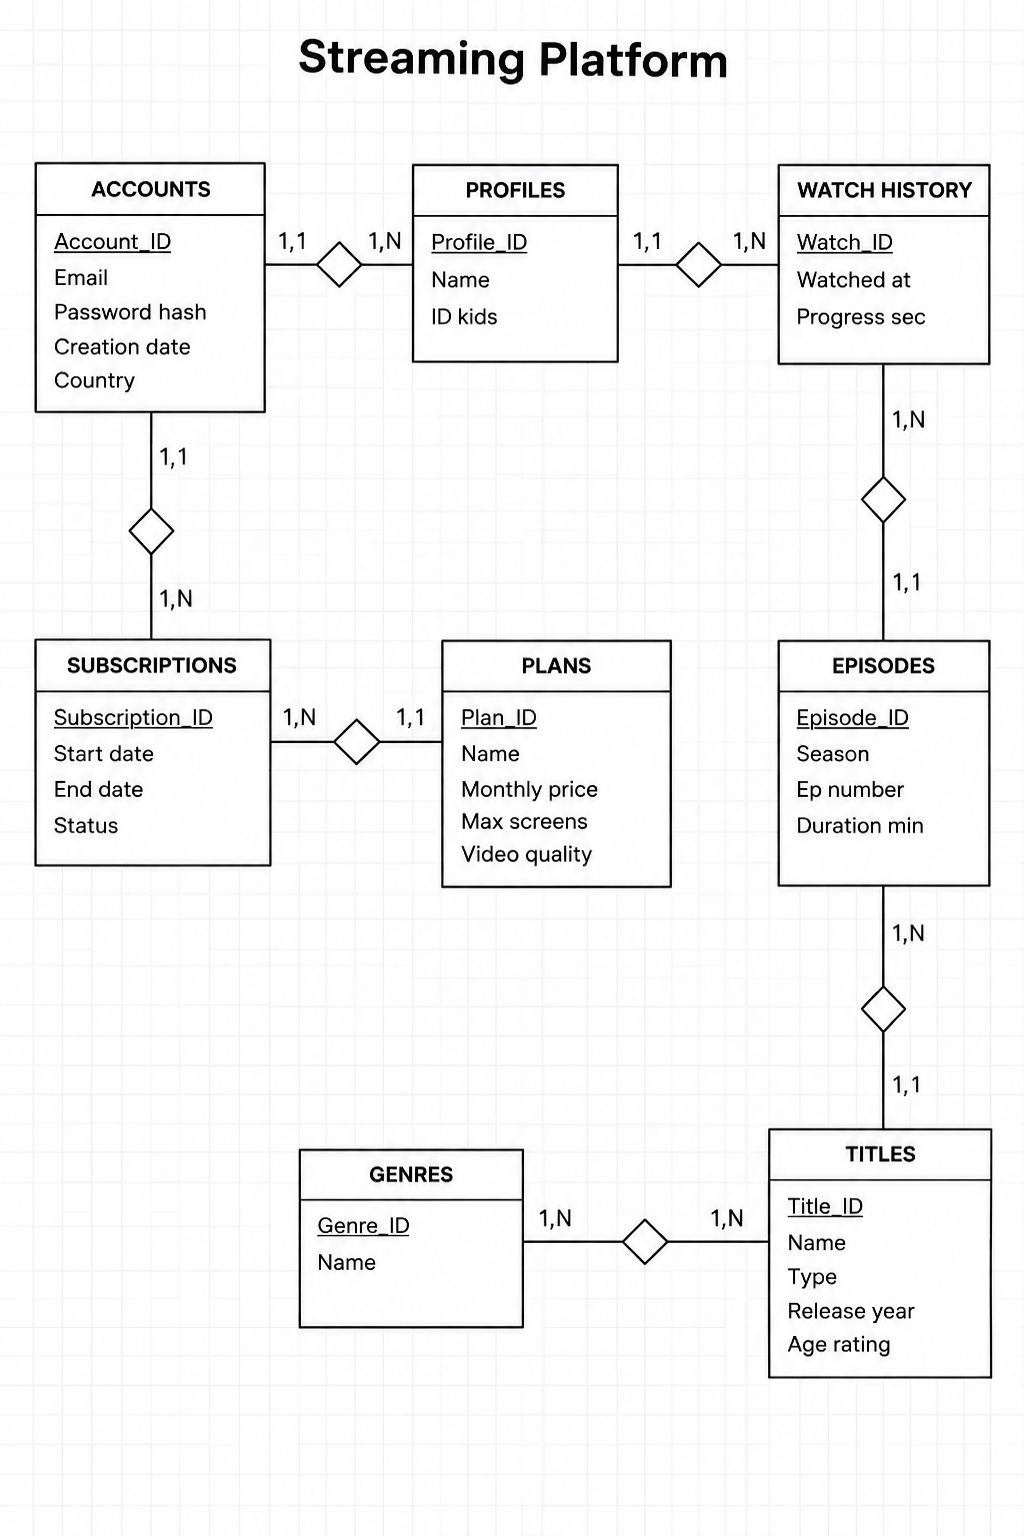
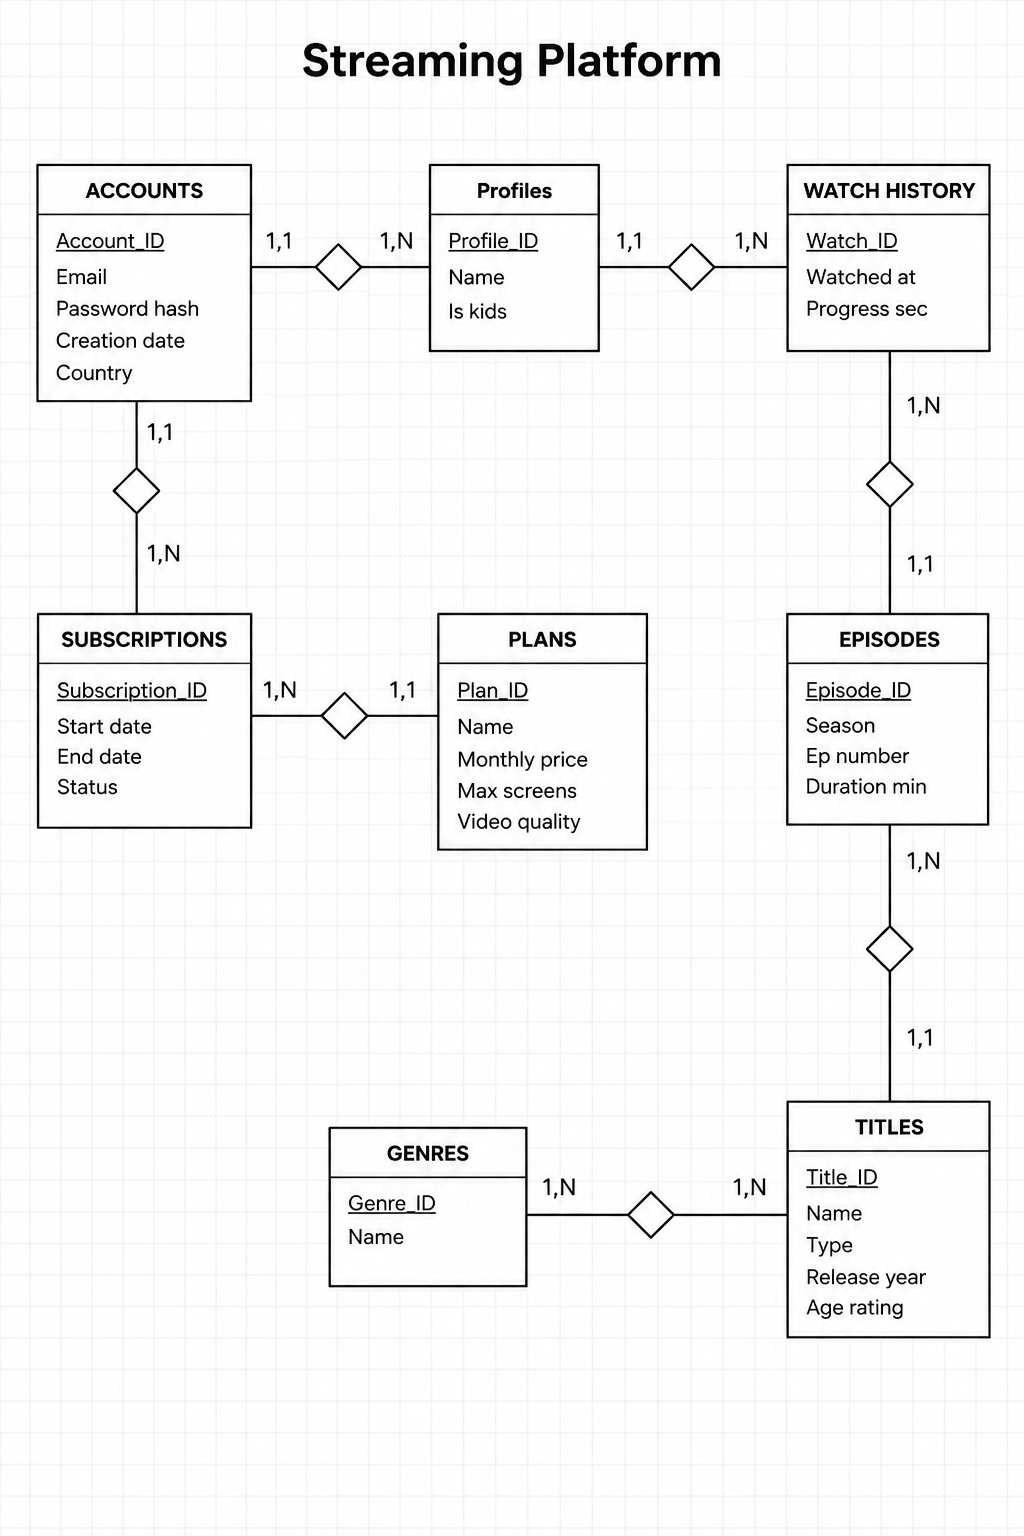
...

Changed region(s): [[0.0312, 0.0938, 0.9688, 0.9062], [0.375, 0.4062, 0.6562, 0.5938], [0.2812, 0.0312, 0.7188, 0.0625]]

diff --git a/datu-baseak.html b/datu-baseak.html
@@ -75,25 +75,10 @@
     </section>
 
         <section>
-      <h2>4. Access Inplementazioa eta Eragiketa Hurrenkera</h2>
+      <h2>4. Description</h2>
       <div class="flex-kaxak">
         <div class="kaxa">
-          <h3>Txertaketa Hurrenkera (Gurasotik Semera):</h3>
-          <ol>
-            <li>Plans, Genres eta Accounts (Guraso nagusiak)</li>
-            <li>Titles, Subscriptions eta Profiles</li>
-            <li>Episodes eta Title_Genres</li>
-            <li>Watch_History (Azkena, menpeko erregistro guztiekin)</li>
-          </ol>
-        </div>
-        <div class="kaxa">
-          <h3>Ezabatze Hurrenkera (Semetik Gurasora):</h3>
-          <ol>
-            <li>Watch_History (Seme-erregistroak lehenik)</li>
-            <li>Title_Genres eta Episodes</li>
-            <li>Profiles eta Subscriptions</li>
-            <li>Titles, Plans, Genres eta Accounts</li>
-          </ol>
+          
         </div>
       </div>
     </section>
